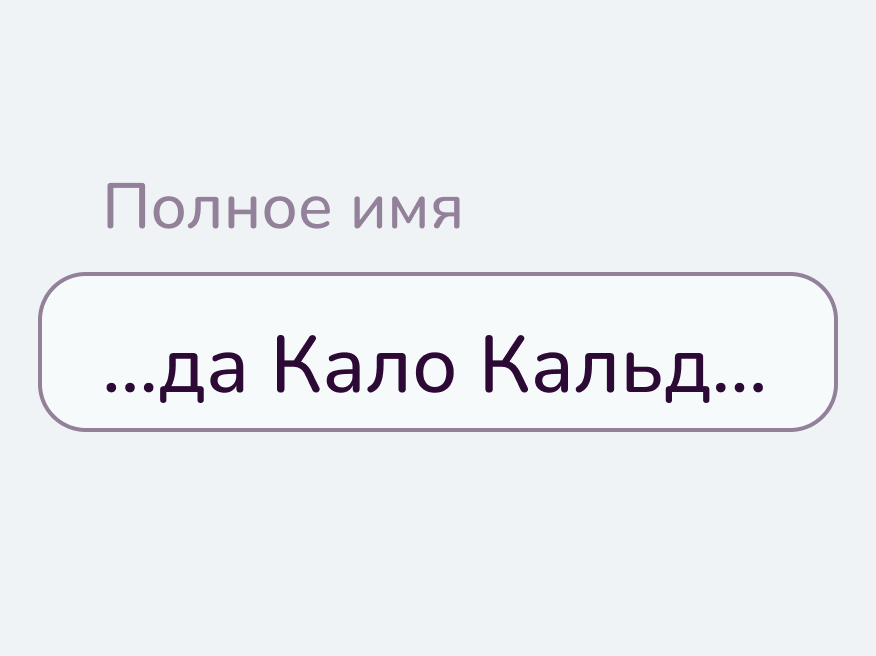
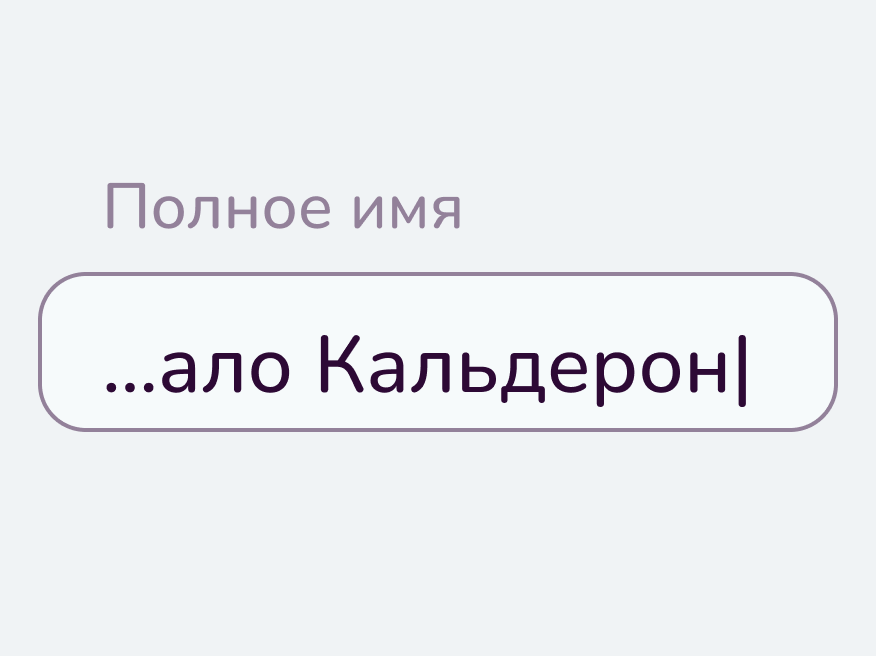
иллюстрации в строчку, начала разбираться

Changed region(s): [[0.1849, 0.5183, 0.8938, 0.6098]]

diff --git a/inputs.html b/inputs.html
@@ -33,43 +33,64 @@
             <img src="images/inputs/feedback_no.png">
         </article>
     </article>
+
 <h4>Нормальное</h4>
 <img src="images/inputs/normal.png">
 <p class="medium-text">Нормальное состояние&nbsp;&mdash; это поле без обратной связи.</p>
+
 <h4>Заблокированное</h4>
 <img src="images/inputs/blocked.png">
 <p class="medium-text">Заблокированное поле используется, когда в&nbsp;данный момент невозможно ввести информацию.</p>
 <p class="medium-text">При этом в&nbsp;описании обязательно должна быть указана причина блокировки поля или способ его разблокировки. Как и&nbsp;другие заблокированные элементы, оно менее контрастно.</p>
+
 <h4>Ошибка</h4>
 <img src="images/inputs/mistake.png">
 <p class="medium-text">Ошибка используется в&nbsp;случае, когда введенные данные не&nbsp;соответствуют требованиям к&nbsp;ним.</p>
 <p class="medium-text">В&nbsp;случае ошибки обязательно заполнение описания ошибки, чтобы ясно было, как её&nbsp;исправлять. Рядом с&nbsp;описанием обязательно использовать иконку для того, чтобы состояние ошибки было показано не&nbsp;только цветом.</p>
 <p class="medium-text">Исключение составляют неверно введенные логин и&nbsp;пароль: даже если есть ошибка форматирования, необходимо выводить ошибку &laquo;Неверный логин или пароль&raquo; (дословно) для избежания компрометирования личных данных.</p>
+
 <h4>Предупреждение</h4>
 <img src="images/inputs/warning.png">
 <p class="medium-text">Предупреждение&nbsp;&mdash; это совет. Оно используется в&nbsp;случае, когда введенные пользователем данные корректны, но&nbsp;исправление может улучшить опыт пользователя.</p>
 <p class="medium-text">В&nbsp;случае предупреждения также обязательно заполнение описания предупреждения, желательно так, чтобы ясно было, как его исправлять. Рядом с&nbsp;описанием обязательно использовать иконку для того, чтобы состояние ошибки было показано не&nbsp;только цветом.</p>
+
 <h4>Успех</h4>
 <img src="images/inputs/success.png">
 <p class="medium-text">Успех используется в&nbsp;случае заполнения полей со&nbsp;сложными правилами для того, чтобы показать, что все правила соблюдены.</p>
 <p class="medium-text">Верный логин и&nbsp;пароль (в&nbsp;процессе входа в&nbsp;уже существующий аккаунт) никогда не&nbsp;должны иметь состояние Успех. Совпадающие пароли или надежный пароль во&nbsp;время регистрации могут иметь состояние Успех.</p>
+
 <h3>Стиль</h3>
 <!-- Это идет в одну строку-->
-<h4>Контур</h4>
-<img src="images/inputs/outline.png">
-<p class="medium-text">Привычно, граница четко определяет поле.</p>
-<h4>Подчеркивание</h4>
-<img src="images/inputs/underline.png">
-<p class="medium-text">Визуально легче и&nbsp;компактнее.</p>
+<ul class="illustration-container">
+    <li class="grid3">
+        <h4>Контур</h4>
+        <img src="images/inputs/outline.png">
+        <p class="medium-text">Привычно, граница четко определяет поле.</p>
+    </li>
+    <li class="grid3">
+        <h4>Подчеркивание</h4>
+        <img src="images/inputs/underline.png">
+        <p class="medium-text">Визуально легче и&nbsp;компактнее.</p>
+    </li>
+</ul>
 <!-- Конец этого блока-->
+
 <h3>Какой стиль выбрать?</h3>
 <p class="medium-text">Руководствуйтесь эстетическими соображениями и&nbsp;количеством полей в&nbsp;форме.</p>
+
 <!-- Это идет в одну строку-->
-<img src="images/inputs/underline_form.png">
-<p class="medium-text"><strong>Полей 5&nbsp;и&nbsp;больше? </strong>Лучше использовать <strong>подчеркнутые поля</strong>, они визуально более легкие.</p>
-<img src="images/inputs/outline_form.png">
-<p class="medium-text"><strong>Полей меньше 5?</strong> Лучше использовать <strong>контурные поля</strong>, они более заметные и&nbsp;привычные..</p>
+<ul class="illustration-container">
+    <li class="grid3">
+        <img src="images/inputs/underline_form.png">
+        <p class="medium-text"><strong>Полей 5&nbsp;и&nbsp;больше? </strong>Лучше использовать <strong>подчеркнутые поля</strong>, они визуально более легкие.</p>
+    </li>
+    <li class="grid3">
+        <img src="images/inputs/outline_form.png">
+        <p class="medium-text"><strong>Полей меньше 5?</strong> Лучше использовать <strong>контурные поля</strong>, они более заметные и&nbsp;привычные..</p>
+    </li>
+</ul>
 <!-- Конец этого блока-->
+
 <p class="medium-text">Можно использовать <strong>оба вида стилей в&nbsp;одной форме</strong>, но&nbsp;тогда необходим блоковый подход: поля двух разных стилей не&nbsp;должны быть перемешаны, но&nbsp;использованы каждый в&nbsp;своих ясно отделенных блоках.</p>
     <article class="example-container">
         <article class="example yes grid3">
@@ -97,19 +118,28 @@
     <li>согласованность с&nbsp;сеткой.</li>
 </ol>
 <h3>Содержание</h3>
+
 <h4>Плейсхолдер</h4>
 <img src="images/inputs/placeholder.png">
 <p class="medium-text">Неконтрастный текст с&nbsp;примером заполнения поля. Используется для полей, в&nbsp;которых могут возникнуть сомнения в&nbsp;заполнении после прочтения названия.</p>
+
 <!-- Это идет в одну строку-->
-<ol>
-<img src="images/inputs/email.png">
-<li>Всегда содержит пример заполнения</li>
-<img src="images/inputs/name.png">
-<li>Всегда в&nbsp;одну строку и&nbsp;никогда не&nbsp;сокращается.</li>
-<img src="images/inputs/password.png">
-<li>Никогда не&nbsp;используется для полей пароля.</li>
-</ol>
+<ul class="illustration-container">
+    <li class="grid2">
+        <img src="images/inputs/email.png">
+        <p>Всегда содержит пример заполнения</p>
+    </li>
+    <li class="grid2">
+        <img src="images/inputs/name.png">
+        <p>Всегда в&nbsp;одну строку, никогда не&nbsp;сокращать</p>
+    </li>
+    <li class="grid2">
+        <img src="images/inputs/password.png">
+        <p>Запрещен для&nbsp;полей авторизации</p>
+    </li>
+</ul>
 <!-- Конец этого блока-->
+
 <p class="medium-text">Пример должен явно отличаться от&nbsp;автозаполнения, которое возможно в&nbsp;поле.</p>
     <article class="example-container">
         <article class="example yes grid2">
@@ -137,6 +167,7 @@
             <p class="explanation">Не&nbsp;соответствует принятому стилю речи.</p>
         </article>
     </article>
+
 <h4>Введенный текст</h4>
 <img src="images/inputs/inputed_text.png">
 <p class="medium-text">Текст, который введен пользователем в&nbsp;поле.</p>
@@ -147,7 +178,7 @@
                 <img src="images/example_yes.svg">
                 <p class="heading"><strong></strong>. Наглядность ошибки</p>
             </div>
-            <img src="images/inputs/blocking_no.png">
+            <img src="images/inputs/blocking_yes.png">
             <p class="explanation">Ясно, что система и&nbsp;техника работают, и&nbsp;ясно, какая ошибка произошла.</p>
         </article>
         <article class="example no grid3">
@@ -155,40 +186,66 @@
                 <img src="images/example_no.svg">
                 <p class="heading"><strong></strong>. Неясное поведение</p>
             </div>
-            <img src="images/inputs/blocking_yes.png">
+            <img src="images/inputs/blocking_no.png">
             <p class="explanation">Кажется, что клавиша западает или система не&nbsp;работает.</p>
         </article>
     </article>
 <p class="medium-text">Введенный текст может превышать длину строки ввода. Этого стоит избегать, продумывая длину возможного текста и&nbsp;настраивая ширину контейнера. Но&nbsp;пользователь всегда может создать такую ситуацию. Тогда текст проматывается с&nbsp;перемещением курсора и&nbsp;сокращается эллипсисом.</p>
+
 <!-- Это идет в одну строку-->
-<img src="images/inputs/input_overflow_end.png">
-<p class="medium-text"><strong>Курсор в&nbsp;конце.</strong> Контент слева не&nbsp;входит и&nbsp;сокращен c &laquo;...&raquo;</p>
-<img src="images/inputs/input_overflow_middle.png">
-<p class="medium-text"><strong>Курсор в&nbsp;середине.</strong> Правый и&nbsp;левый край сокращены с &laquo;...&raquo;</p>
-<img src="images/inputs/input_overflow_start.png">
-<p class="medium-text"><strong>Курсор в&nbsp;начале.</strong> Контент справа не&nbsp;входит и&nbsp;сокращен c &laquo;...&raquo;</p>
+<ul class="illustration-container">
+    <li class="grid2">
+        <img src="images/inputs/input_overflow_end.png">
+        <p class="medium-text"><strong>Курсор в&nbsp;конце.</strong> Левый край не&nbsp;входит и&nbsp;сокращен c &laquo;...&raquo;</p>
+    </li>
+    <li class="grid2">
+        <img src="images/inputs/input_overflow_middle.png">
+        <p class="medium-text"><strong>Курсор в&nbsp;середине.</strong> Правый и&nbsp;левый края сокращены с &laquo;...&raquo;</p>
+    </li>
+    <li class="grid2">
+        <img src="images/inputs/input_overflow_start.png">
+        <p class="medium-text"><strong>Курсор в&nbsp;начале.</strong> Правый край не&nbsp;входит, сокращен c &laquo;...&raquo;</p>
+    </li>
+</ul>
 <!-- Конец этого блока-->
+
 <h3>Вспомогательные элементы</h3>
 <p class="medium-text">Являются опциональными и&nbsp;используются для дополнительной полезной пользователю информации.</p>
 <h4>Название поля</h4>
 <img src="images/inputs/input_name.png">
 <p class="medium-text">Надпись вверху поля ввода с&nbsp;описанием содержания.</p>
 <p class="medium-text">Стоит использовать в&nbsp;подавляющем большинстве случаев, нельзя заменять текстом плейсхолдера, поскольку после заполнения поля плейсхолдер исчезнет и&nbsp;информация о&nbsp;поле будет не&nbsp;видна.</p>
+
 <!-- Это идет в одну строку-->
-<img src="images/inputs/team_name.png">
-<p class="medium-text">Рекомендуется использовать <strong>именные словосочетания</strong></p>
-<img src="images/inputs/name_input_aunt.png">
-<p class="medium-text"><strong>Высота описания</strong> ровно одна строка без эллипсисов, лучше 2&nbsp;слова</p>
+<ul class="illustration-container">
+    <li class="grid3">
+        <img src="images/inputs/team_name.png">
+        <p class="medium-text">Рекомендуется использовать <strong>именные словосочетания</strong></p>
+    </li>
+    <li class="grid3">
+        <img src="images/inputs/name_input_aunt.png">
+        <p class="medium-text"><strong>Высота описания</strong> ровно одна строка без эллипсисов, лучше 2&nbsp;слова</p>
+    </li>
+</ul>
 <!-- Конец этого блока-->
+
 <h4>Описание поля</h4>
 <img src="images/inputs/description.png">
 <p class="medium-text">Надпись внизу поля ввода с&nbsp;информацией о&nbsp;заполнении.</p>
+
 <!-- Это идет в одну строку-->
-<img src="images/inputs/abcd_login.png">
-<p class="medium-text"><strong>Используется для</strong> советов, правил, формата, информации, полезной для пользователя</p>
-<img src="images/inputs/school_number.png">
-<p class="medium-text"><strong>Высота описания</strong> не&nbsp;больше трёх строк, но&nbsp;лучше уместить в&nbsp;одну строку</p>
+<ul class="illustration-container">
+    <li class="grid3">
+        <img src="images/inputs/abcd_login.png">
+        <p class="medium-text"><strong>Используется для</strong> советов, правил, формата, информации, полезной для пользователя</p>
+    </li>
+    <li class="grid3">
+        <img src="images/inputs/school_number.png">
+        <p class="medium-text"><strong>Высота описания</strong> не&nbsp;больше трёх строк, но&nbsp;лучше уместить в&nbsp;одну строку</p>
+    </li>
+</ul>
 <!-- Конец этого блока-->
+
 <p class="medium-text">Заменяйте модальные глаголы на&nbsp;глаголы в&nbsp;повелительном наклонении для сокращения описания там, где это не&nbsp;нарушает смысл.</p>
     <article class="example-container">
         <article class="example yes grid3">
@@ -206,17 +263,27 @@
             <img src="images/inputs/points_no.png">
         </article>
     </article>
+
 <h4>Иконки</h4>
 <img src="images/inputs/icons.png">
 <p class="medium-text">Предшествуют содержанию, плейсхолдеру и&nbsp;описанию.</p>
 <p class="medium-text">Служат для быстрого понимания сути последующего сообщения, поэтому должны всегда быть информационно релевантными.</p>
+
 <!-- Это идет в одну строку-->
-<img src="images/inputs/form_left.png">
-<p class="medium-text"><strong>Для иконки содержания</strong> объекты, а&nbsp;не&nbsp;концепты</p>
-<img src="images/inputs/form_middle.png">
-<p class="medium-text"><strong>Для иконки описания</strong> обратная связь и&nbsp;формат</p>
-<img src="images/inputs/form_right.png">
-<p class="medium-text"><strong>Для обеих иконок</strong> не&nbsp;рекомендуются смайлики</p>
+<ul class="illustration-container">
+    <li class="grid2">
+        <img src="images/inputs/form_left.png">
+        <p class="medium-text"><strong>Иконки содержания:</strong> объекты, не&nbsp;концепты</p>
+    </li>
+    <li class="grid2">
+        <img src="images/inputs/form_middle.png">
+        <p class="medium-text"><strong>Иконки описания:</strong> обратная связь и&nbsp;подсказки формата</p>
+    </li>
+    <li class="grid2">
+        <img src="images/inputs/form_right.png">
+        <p class="medium-text"><strong>Обе иконки</strong> не&nbsp;рекомендуются смайлики</p>
+    </li>
+</ul>
 <!-- Конец этого блока-->
 <h4>Кнопка</h4>
 <p class="medium-text">Для индивидуально стоящего поля, которое используют для совершения действия, например, строка поиска.</p>

diff --git a/instruction.css b/instruction.css
@@ -106,7 +106,7 @@
 --radius-large: 1.25rem; /*20px*/
 }
 
-.advise, .example-container, .illustration {
+.advise, .example-container, .illustration-container {
     margin-bottom: 40px;
 }
 
@@ -116,13 +116,14 @@
 
 /* ||| Пример Да Нет*/
 
-.example-container {
+.example-container, .illustration-container {
     display: flex;
     flex-direction: row;
     gap: var(--grid-gap);
     row-gap: var(--grid-gap);
     max-width: var(--grid-6);
     flex-wrap: wrap;
+    padding-left: 0;
 }
 
 .example {
@@ -204,4 +205,15 @@
     display: block;
     margin-bottom: var(--indent-small);
     margin-top: var(--indent-medium);
+}
+
+/* ||| Иллюстрация*/
+.illustration-container li {
+    display: flex;
+    flex-direction: column; 
+}
+.illustration-container p {
+}
+.illustration-container img {
+    width: 100%;
 }
